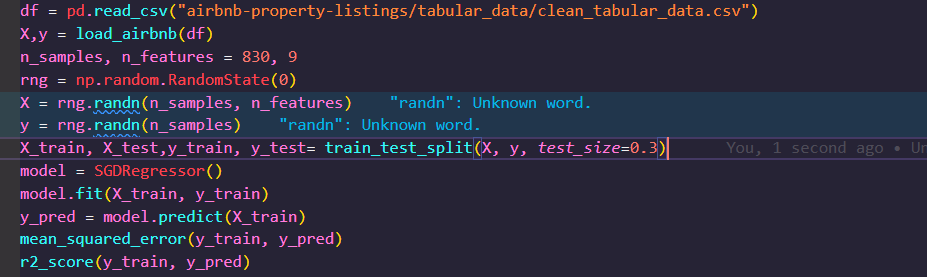
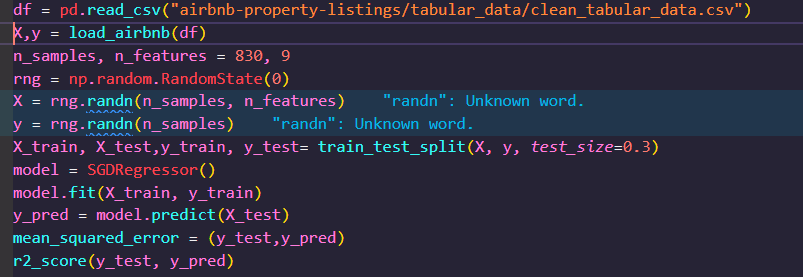
Updates

diff --git a/README.md b/README.md
@@ -180,57 +180,63 @@ For the first batch of modelling, the features are the numerical tabular data an
 ## Milestone 2 - Create a regresion model
 &nbsp;
 
-_simple regression model to predict the nightly cost of each listing_ 
+<ins>__simple regression model to predict the nightly cost of each listing__
+</ins> 
 
-The modelling.py script was created an contains the main code  for the various models. The first step is create a simple regression model to predict the nightly cost  of each listing. the __load_airbnb function_ is imported from the tabular_data.py which contains the df for the  features (numerical data - nightly cost) and label (nightly cost). This model is trained using the SKlearn __Stochastic Gradient Descent (SGD)Regressor class__. The __test split function__  is used to split the data into training and testing sets. The training set is used to train the model and the test set is used to provide an unbiased evaluation of a final model fit on the training data set. SGD model is imported from Sklearn and The next step to create a variable which calls the __SGDRegresssor__ class. The __fit()__ function is  then called to fit the training data with SGD. Now that the model is fitted,  the __prediction function__ is called to make a prediction of the nightly cost based on the fitted  training data set. The __np.random.seed function__ ensures(look it up in videos again)(FIGURE 11)
+The modelling.py script contains the main code for training the various models. The first step is create a simple regression model to predict the nightly cost  of each listing. the __load_airbnb__ function is imported from the tabular_data.py which contains the df for the  features (numerical data minus nightly cost) and label (nightly cost). This model is trained using the SKlearn __Stochastic Gradient Descent (SGD)Regressor class__. The __test split function__  is used to split the data into training and testing sets. The __randn__ function randomises the data in the features and label dataset.The training set is used to train the model and the test set is used to provide an unbiased evaluation of the final model fit on the training data set. SGD model is imported from Sklearn and the next step to create a variable which calls the __SGDRegresssor__ class. The __fit()__ function is  then called to fit the training data with SGD. Now that the model is fitted,  the __prediction function__ is called to make a prediction of the nightly cost based on the fitted  training data set. The __np.random.seed__ function ensures that the ranpseudo-random numbers generated within NumPy __randint__ function can be stored, hence the model results can be repeated after each run. 
 
 
+<ins>__Evaluation the regression model performance__<ins>
+
+SKlearn is then used to evaluate the key measures of performance regression. This is done by importing the mean sqaure error and R2 score functions from the Sklearn metrics. The __mean_square_error__ and __r2score__ functions and are then call to calculate the mean square error and the R2 score on the test data set (Figure 11). 
 
 
-_Evaluation the regression model performance_
-
-SKlearn is then used to evaluate the key measures of performance regression. This is done by importing the mean sqaure error and R2 score functions from the Sklearn metrics. The __mean_square_error__ and __r2score__ functions are then called to calculate the mean square error and the R2 score on the trained data set (Figure 11). 
-
-![Alt text](project_images/Figure_11_SGD_model.PNG)
+<kbd>![Alt text](project_images/Figure_11_SGD_model.PNG)<kbd>
 
 Figure 11 - SGD model code
 
-_Evaluation the regression model performance_
+&nbsp;
+
+<ins>__Evaluation the regression model performance__<ins>
+
 &nbsp;
 
 
+<ins>_Tune the hyperparameters of the model using methods from SKLearn_<ins>
 
-_Tune the hyperparameters of the model using methods from SKLearn_
+&nbsp;
 
-In order to tune the accuracy of the model, the hyperparameters need to be tuned. This is done by implementing sklearns __GridSearchCV libary function__. The __GridSearchCV libary function__ helps loop through predefined hyperparameters and fits the model on the training set. The  __tune_regression_model_hyperparameters functions__(Figure 12) passes the model, X,y,X_test,y_test and a dictionary of the hyperparameters to be tuned and calls the __GridSearchCV libary function__ which loops through the dictionary of hyperparameters then the __fit function__ fits the model, then the __predict function__ makes a prediction on the test data set. The __mean_squared_error function__ calculates the mean squared error bestween the y_test and the predictions. The function returns the the best model, the best model hyperparameters and the hyperparameters.
+In order to tune the accuracy of the model, the hyperparameters need to be tuned. This is done by implementing SKlearns __GridSearchCV libary__ function. The __GridSearchCV libary__ function helps loop through predefined hyperparameters and fits the model on the training set. The  __tune_regression_model_hyperparameters__ function(Figure 12) passes the model, X,y,X_test,y_test and a dictionary of the hyperparameters to be tuned and calls the __GridSearchCV libary function__ which loops through the dictionary of hyperparameters then the __fit__ function fits the model, then the __predict function__ makes a prediction on the test data set. The __mean_squared_error__ function calculates the mean squared error between the y_test and the predictions. The function returns the the best model, the best model hyperparameters and the performance metrics.
+
+&nbsp;
+<kbd>![Alt text](project_images/Figure_13_Regression_Tune.PNG)<kbd>
+
+*Figure X - tune_regression_model_hyperparameters function*
+
+
+
+&nbsp;
+
+<ins>__Cross validation__<ins>
+
+In general ML models the features and labels dataset is split into Training,Test and validation sets, however __GridSearchCV libary__ function a resampling method (cv) that uses different portions of the data to test and train a model on different iterations.In SKlearn the model is trained using k-1 of the folds as training data and then then resulting model is validated on the remaining part of the model (Figure X).
+&nbsp;
 
 ![Alt text](project_images/Figure_12_CV_diagram.PNG)
-Figure 12 - Cross validation diagram
+Figure X - Cross validation diagram
 
+&nbsp;
+
+<ins>__Remaining GridSearchCV parameters__<ins>
+
+The remaining paramEters called in the __GridSearchCV libary function__ is the estimator which is the model, n_jobs (set to -1) which means all the processors are being used (this reduces the run time of the tuning process) and the verbose is set to 1 (hence no progress metrics are shown).
 
 &nbsp;
 
-_Cross validation_
-In general ML models the features dataset would be split into Training,Test and validation sets, however __GridSearchCV libary function__ contains a parameter called cv which stands for cross validation which  is a resampling method that uses different portions of the data to test and train a model on different iterations.In SKlearn the model is trained using k-1 of the folds as training data and then then resulting model is validated on the remaining part of the model(Figure 12).
-&nbsp;
-
-&nbsp;
-![Alt text](project_images/Figure_13_Regression_Tune.PNG)
-
-Figure 13 - Cross validation diagram
-
-_Remaining GridSearchCV parameters_
-
-The remaining paramters called in the __GridSearchCV libary function__ is the estimator which is the model, n_jobs which is set to -1 which means all proccessors are being used (this reduces the run time of the tuning proccess) and the verbose is set to 1 (hence no progress metrics are shown)
-
-&nbsp;
-&nbsp;
-
-_hyperparameter selection_
+<ins>__hyperparameter selection__<ins>
 
 In general The first value/boolean statement/option to be tuned for each hyperparameter was chosen based on the defaults provided in the SKlearn manual. Then a range of values were tested by increasing/decreasing from the default value. In general each hyperparameter provided in the SKlearn manual was chosen to be tuned. After a few model runs the some hyperparameters were removed due to time constraints.
 
-&nbsp;
 &nbsp;
 
 _Save the model_
